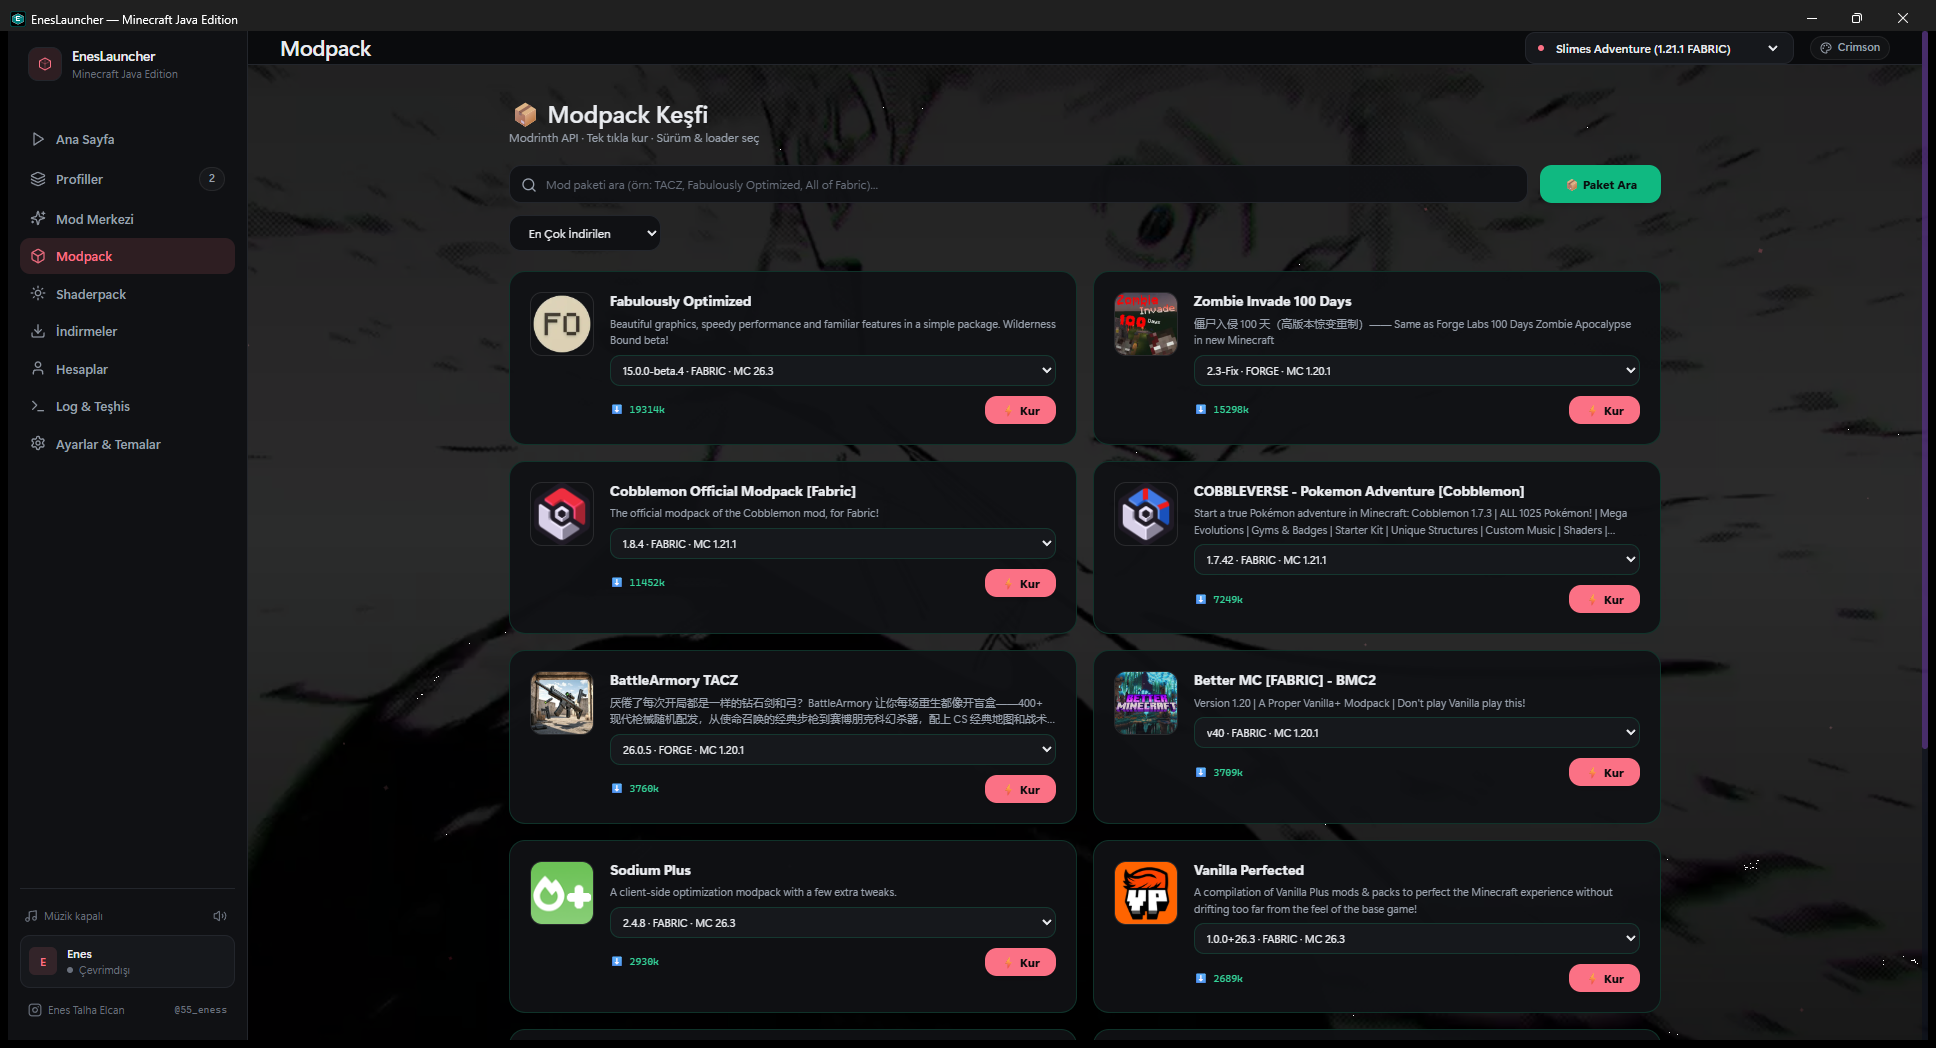
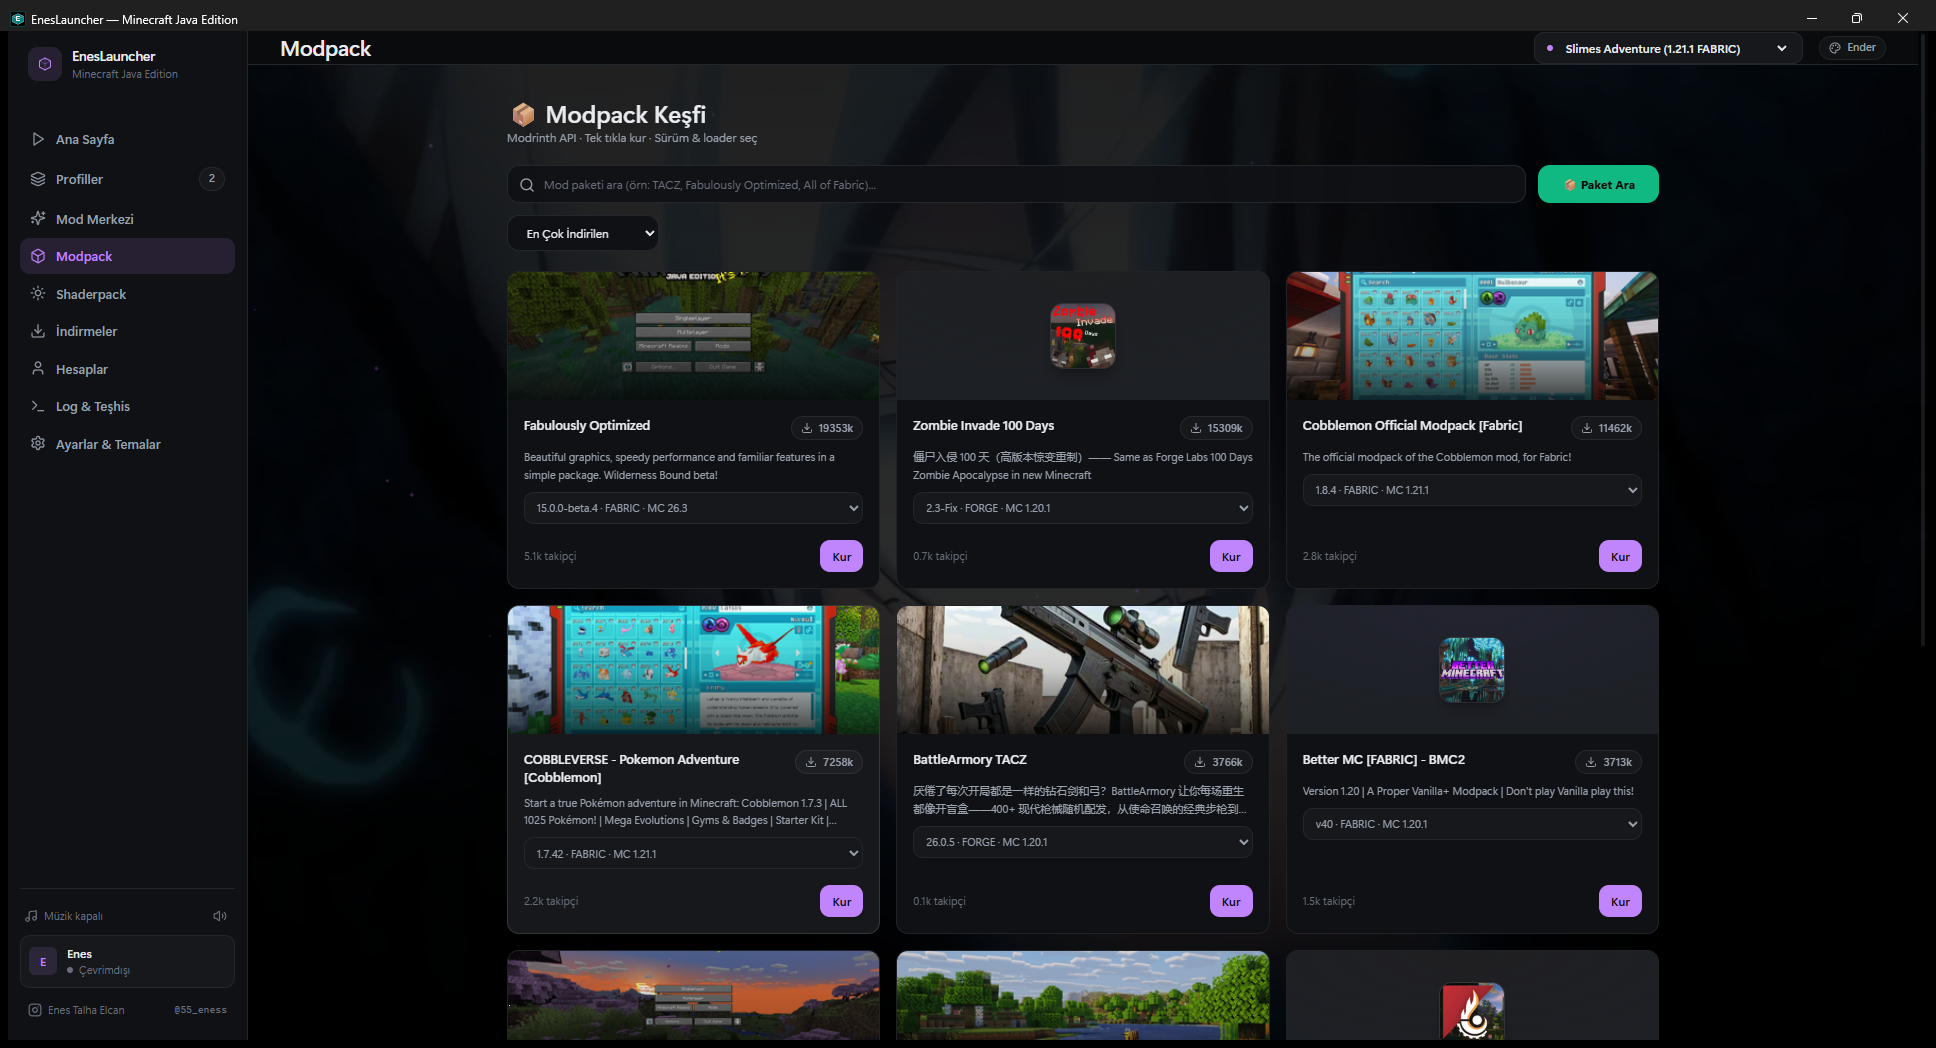
feat(modpack): modpack kartlarına gerçek kapak görseli ve yeni tasarım
- Modrinth arama sonuçlarındaki `gallery` ve `color` alanları backend'e
  eklendi (mod-provider-api + modrinth-provider); kartlarda proje
  galerisinin ilk görseli kapak olarak kullanılıyor
- Yeni `ProjectCover` bileşeni: galeri görseli -> proje ikonu -> yer tutucu
  sırasıyla düşer; görsel yüklenemezse otomatik olarak ikona geçer, kırık
  görsel kutusu oluşmaz. `loading="lazy"` + `referrerPolicy="no-referrer"`
- Modpack kartı yeniden tasarlandı: kapak görseli, başlık, iki satır
  açıklama, indirme çipi, sürüm seçici ve alta hizalı eylem satırı
- Izgara geniş ekranda 3 sütuna çıktı; kartlar satır içinde eşit yükseklikte
- README'deki modpack ekran görüntüsü güncellendi

diff --git a/apps/desktop/src/App.tsx b/apps/desktop/src/App.tsx
@@ -260,6 +260,76 @@ function LauncherLogo({
   );
 }
 
+// ── Modpack / mod kapak görseli ────────────────────────────────────────────
+// Galeri görseli varsa onu, yoksa proje ikonunu, o da yoksa yer tutucuyu gösterir.
+// Görsel yüklenemezse otomatik olarak ikona düşer (kırık görsel kutusu oluşmaz).
+function ProjectCover({
+  gallery,
+  icon,
+  title,
+  color,
+  className = "",
+}: {
+  gallery?: string[];
+  icon?: string;
+  title: string;
+  color?: number;
+  className?: string;
+}) {
+  const [coverFailed, setCoverFailed] = useState(false);
+  const [iconFailed, setIconFailed] = useState(false);
+
+  const cover = !coverFailed && gallery && gallery.length > 0 ? gallery[0] : undefined;
+  const accent =
+    typeof color === "number" && color > 0
+      ? `#${color.toString(16).padStart(6, "0")}`
+      : undefined;
+
+  if (cover) {
+    return (
+      <div className={`relative overflow-hidden bg-surface-3 ${className}`}>
+        <img
+          src={cover}
+          alt=""
+          loading="lazy"
+          decoding="async"
+          referrerPolicy="no-referrer"
+          onError={() => setCoverFailed(true)}
+          className="w-full h-full object-cover transition-transform duration-300 group-hover:scale-[1.02]"
+        />
+        <div className="absolute inset-0 bg-gradient-to-t from-black/75 via-black/20 to-transparent" />
+      </div>
+    );
+  }
+
+  return (
+    <div
+      className={`relative flex items-center justify-center overflow-hidden bg-surface-3 ${className}`}
+      style={
+        accent
+          ? {
+              backgroundImage: `radial-gradient(120% 130% at 50% 0%, ${accent}40, transparent 72%)`,
+            }
+          : undefined
+      }
+    >
+      {icon && !iconFailed ? (
+        <img
+          src={icon}
+          alt={title}
+          loading="lazy"
+          decoding="async"
+          referrerPolicy="no-referrer"
+          onError={() => setIconFailed(true)}
+          className="w-16 h-16 rounded-xl object-cover ring-1 ring-white/10 shadow-lg shadow-black/30"
+        />
+      ) : (
+        <Box className="w-7 h-7 text-ink-dim" />
+      )}
+    </div>
+  );
+}
+
 export default function App() {
   const [activeTab, setActiveTab] = useState<
     "dashboard" | "instances" | "mods" | "modpacks" | "shaders" | "downloads" | "logs" | "accounts" | "settings"
@@ -1974,49 +2044,76 @@ export default function App() {
                 </div>
               )}
 
-              <div className="grid grid-cols-1 md:grid-cols-2 gap-4">
-                {modpackSearchResults.map((pack) => (
-                  <div key={pack.project_id}
-                    className="group p-5 rounded-2xl bg-surface/95 border border-emerald-500/20 hover:border-emerald-400/50 transition-all flex gap-4 hover:shadow-[0_0_20px_rgba(16,185,129,0.15)]">
-                    {pack.icon_url ? (
-                      <img src={pack.icon_url} alt={pack.title} className="w-16 h-16 rounded-xl object-cover shrink-0 border border-white/10" />
-                    ) : (
-                      <div className="w-16 h-16 rounded-xl bg-emerald-950/60 border border-emerald-500/30 flex items-center justify-center text-3xl shrink-0">📦</div>
-                    )}
-                    <div className="flex-1 min-w-0 space-y-1.5">
-                      <h4 className="text-sm font-bold text-ink leading-tight">{pack.title}</h4>
-                      <p className="text-[11px] text-ink-muted line-clamp-2">{pack.description}</p>
-                      {/* Sürüm Seçici */}
-                      {modpackVersionsMap[pack.project_id] && modpackVersionsMap[pack.project_id].length > 0 && (
-                        <select
-                          value={selectedVersionUrlMap[pack.project_id] || ""}
-                          onChange={(e) => setSelectedVersionUrlMap((prev) => ({ ...prev, [pack.project_id]: e.target.value }))}
-                          className="w-full px-2 py-1.5 bg-surface-2 border border-emerald-500/20 rounded-lg text-[11px] text-ink outline-none focus:border-accent mt-1">
-                          {modpackVersionsMap[pack.project_id].map((v) => {
-                            const file = v.files.find(f => f.primary) || v.files[0];
-                            const loaders = v.loaders?.join(", ") || "?";
-                            
-                            return (
-                              <option key={v.id} value={file?.url || ""}>
-                                {v.version_number} · {loaders.toUpperCase()} · MC {v.game_versions?.join(",")}
-                              </option>
-                            );
-                          })}
-                        </select>
-                      )}
-                      <div className="flex items-center justify-between pt-1">
-                        <div className="text-[10px] font-mono">
-                          <span className="text-emerald-400">⬇ {(pack.downloads / 1000).toFixed(0)}k</span>
+              <div className="grid grid-cols-1 md:grid-cols-2 xl:grid-cols-3 gap-4">
+                {modpackSearchResults.map((pack) => {
+                  const versions = modpackVersionsMap[pack.project_id];
+                  return (
+                    <div
+                      key={pack.project_id}
+                      className="group panel panel-hover overflow-hidden flex flex-col"
+                    >
+                      <ProjectCover
+                        gallery={pack.gallery}
+                        icon={pack.icon_url}
+                        title={pack.title}
+                        color={pack.color}
+                        className="h-32 w-full"
+                      />
+
+                      <div className="p-4 flex flex-col gap-2 flex-1">
+                        <div className="flex items-start justify-between gap-2">
+                          <h4 className="text-[13px] font-semibold text-ink leading-snug line-clamp-2">
+                            {pack.title}
+                          </h4>
+                          <span className="chip shrink-0">
+                            <Download className="w-3 h-3" />
+                            {(pack.downloads / 1000).toFixed(0)}k
+                          </span>
                         </div>
-                        <button
-                          onClick={() => openVersionSelector(pack, "modpack")}
-                          className="px-4 py-1.5 bg-accent hover:bg-accent-hover text-[#0a0b0d] font-bold text-xs rounded-xl shadow-md transition-all hover:shadow-[0_0_12px_rgba(16,185,129,0.4)]">
-                          ⚡ Kur
-                        </button>
+
+                        <p className="text-[11px] text-ink-muted leading-relaxed line-clamp-2">
+                          {pack.description}
+                        </p>
+
+                        {versions && versions.length > 0 && (
+                          <select
+                            value={selectedVersionUrlMap[pack.project_id] || ""}
+                            onChange={(e) =>
+                              setSelectedVersionUrlMap((prev) => ({
+                                ...prev,
+                                [pack.project_id]: e.target.value,
+                              }))
+                            }
+                            className="w-full h-8 px-2 bg-surface-2 border border-line rounded-lg text-[11px] text-ink-muted outline-none focus:border-accent transition-colors"
+                          >
+                            {versions.map((v) => {
+                              const file = v.files.find((f) => f.primary) || v.files[0];
+                              const loaders = v.loaders?.join(", ") || "?";
+                              return (
+                                <option key={v.id} value={file?.url || ""}>
+                                  {v.version_number} · {loaders.toUpperCase()} · MC{" "}
+                                  {v.game_versions?.join(",")}
+                                </option>
+                              );
+                            })}
+                          </select>
+                        )}
+
+                        <div className="mt-auto flex items-center justify-between gap-2 pt-2">
+                          <span className="text-[11px] text-ink-dim truncate">
+                            {(pack.follows / 1000).toFixed(1)}k takipçi
+                          </span>
+                          <button
+                            onClick={() => openVersionSelector(pack, "modpack")}
+                            className="btn-accent h-8 px-3 text-[12px] shrink-0"
+                          >
+                            Kur
+                          </button>
+                        </div>
                       </div>
                     </div>
-                  </div>
-                ))}
+                  );
+                })}
               </div>
 
               {/* Modpack Sayfalama */}

diff --git a/apps/desktop/src/api.ts b/apps/desktop/src/api.ts
@@ -24,6 +24,10 @@ export interface ModSearchResult {
   follows: number;
   categories: string[];
   supported_versions: string[];
+  /** Proje galerisi (kapak görselleri) — ilk görsel kart kapağı olarak kullanılır. */
+  gallery?: string[];
+  /** Sağlayıcının önerdiği vurgu rengi (0xRRGGBB). */
+  color?: number;
 }
 
 export interface SearchFilterQuery {

diff --git a/crates/modrinth-provider/src/lib.rs b/crates/modrinth-provider/src/lib.rs
@@ -52,6 +52,10 @@ struct LabrinthSearchHit {
     follows: u64,
     categories: Option<Vec<String>>,
     versions: Option<Vec<String>>,
+    #[serde(default)]
+    gallery: Option<Vec<String>>,
+    #[serde(default)]
+    color: Option<u32>,
 }
 
 #[derive(Debug, Deserialize, Serialize)]
@@ -173,6 +177,8 @@ impl ModProvider for ModrinthProvider {
                 categories: hit.categories.unwrap_or_default(),
                 supported_versions: hit.versions.unwrap_or_default(),
                 supported_loaders: Vec::new(),
+                gallery: hit.gallery.unwrap_or_default(),
+                color: hit.color,
             })
             .collect();
 
@@ -244,6 +250,8 @@ impl ModProvider for ModrinthProvider {
                 categories: hit.categories.unwrap_or_default(),
                 supported_versions: hit.versions.unwrap_or_default(),
                 supported_loaders: Vec::new(),
+                gallery: hit.gallery.unwrap_or_default(),
+                color: hit.color,
             })
             .collect();
 
@@ -310,6 +318,8 @@ impl ModProvider for ModrinthProvider {
                 categories: hit.categories.unwrap_or_default(),
                 supported_versions: hit.versions.unwrap_or_default(),
                 supported_loaders: Vec::new(),
+                gallery: hit.gallery.unwrap_or_default(),
+                color: hit.color,
             })
             .collect();
 

diff --git a/crates/mod-provider-api/src/lib.rs b/crates/mod-provider-api/src/lib.rs
@@ -53,6 +53,12 @@ pub struct ModSearchResult {
     pub categories: Vec<String>,
     pub supported_versions: Vec<String>,
     pub supported_loaders: Vec<String>,
+    /// Proje galerisi (kapak görselleri). Sağlayıcı desteklemiyorsa boş.
+    #[serde(default)]
+    pub gallery: Vec<String>,
+    /// Sağlayıcının önerdiği vurgu rengi (0xRRGGBB).
+    #[serde(default)]
+    pub color: Option<u32>,
 }
 
 #[derive(Debug, Clone, Serialize, Deserialize)]
